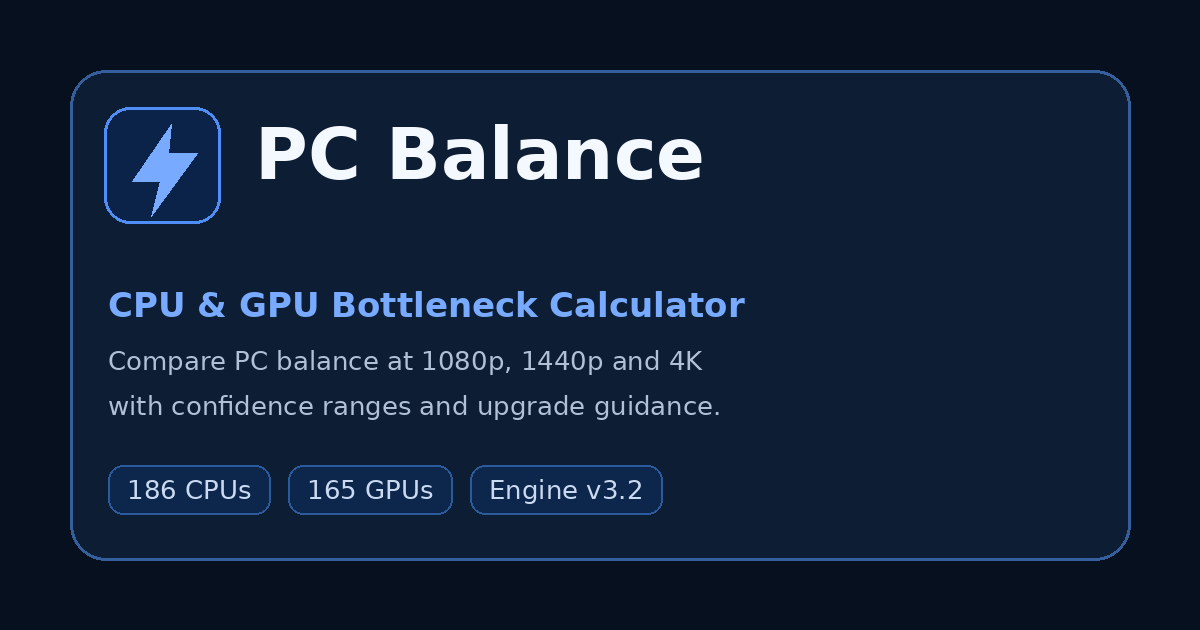
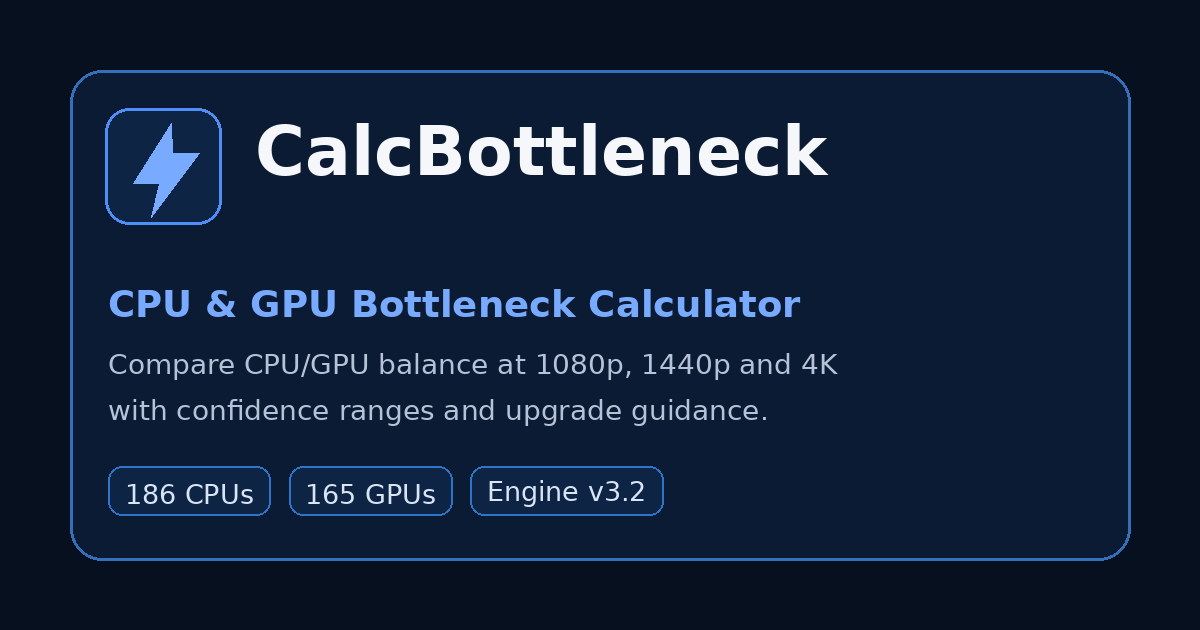
Rebrand site to CalcBottleneck

diff --git a/src/site-config.ts b/src/site-config.ts
@@ -1,5 +1,5 @@
 export const SITE = {
-  name: "PC Balance",
+  name: "CalcBottleneck",
   origin: "https://www.calcbottleneck.com",
   language: "en",
   locale: "en_US",
@@ -8,7 +8,7 @@ export const SITE = {
   lastReviewed: "2026-08-13",
   lastReviewedHuman: "August 13, 2026",
   description:
-    "Independent, benchmark-informed PC hardware decision-support tools for comparing CPU and GPU balance, resolution behavior, and upgrade paths.",
+    "CalcBottleneck provides benchmark-informed PC hardware decision-support tools for comparing CPU and GPU balance, resolution behavior, and upgrade paths.",
 } as const;
 
 export const SITE_PAGES = [
